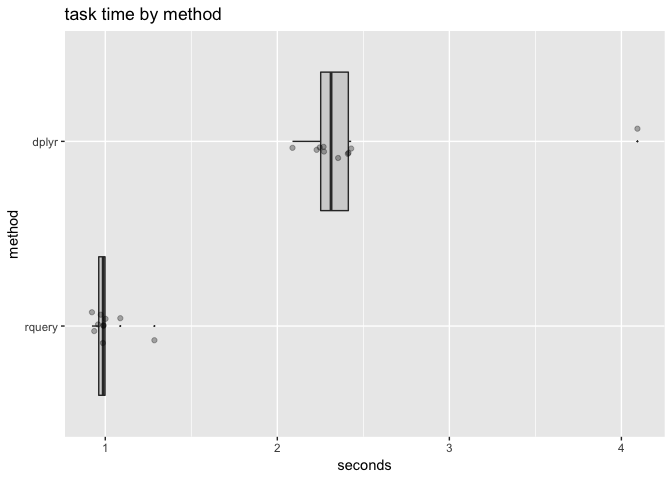
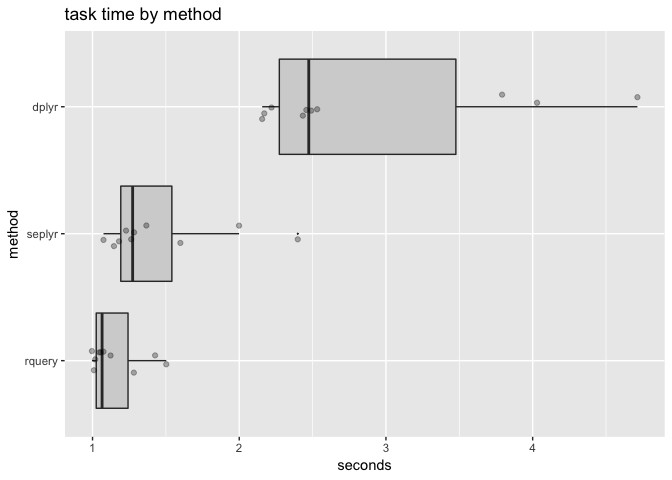
add seplyr/rlang note

diff --git a/extras/CollectExprs.md b/extras/CollectExprs.md
@@ -112,8 +112,8 @@ cat(rquery_fn(db_hdl, td, 5, return_sql = TRUE))
     ##    `x`
     ##   FROM
     ##    `d`
-    ##   ) tsql_52759624129854702053_0000000000
-    ## ) tsql_52759624129854702053_0000000001
+    ##   ) tsql_97238965696940256963_0000000000
+    ## ) tsql_97238965696940256963_0000000001
     ## WHERE `x` = 3
 
 ``` r
@@ -154,7 +154,7 @@ cat(dplyr_fn(tbl, 5, return_sql = TRUE))
     ## FROM (SELECT `x`, `x_1`, `x_2`, `x` + 3 AS `x_3`
     ## FROM (SELECT `x`, `x_1`, `x` + 2 AS `x_2`
     ## FROM (SELECT `x`, `x` + 1 AS `x_1`
-    ## FROM `d`) `mhxrlspolu`) `isdaovyqlr`) `djoikiprqj`) `nnwosegdrz`) `mbwgtjrlfg`
+    ## FROM `d`) `tyiyhhxjag`) `gshhunpiup`) `teowzjcshb`) `hdrfwlzycc`) `lsniejpwft`
     ## WHERE (`x` = 3.0)
 
 ``` r
@@ -166,12 +166,49 @@ dplyr_fn(tbl, 5)
     ##   <int> <int> <int> <int> <int> <int>
     ## 1     3     4     5     6     7     8
 
+We can also collect expressions efficiently using [`seplyr`](https://CRAN.R-project.org/package=seplyr) (`seplyr` is a thin wrapper over `dplyr`, so `seplyr`'s method [`mutate_se()`](https://winvector.github.io/seplyr/reference/mutate_se.html) is essentially instructions how to do the same thing using `rlang`).
+
+``` r
+seplyr_fn <- function(tbl, ncol, return_sql = FALSE) {
+  expressions <- character(0)
+  for(i in seq_len(ncol)) {
+    expri <- paste0("x_", i) %:=% paste0("x + ", i)
+    expressions <- c(expressions, expri)
+  }
+  pipeline <- tbl %>%
+    seplyr::mutate_se(., expressions) %>%
+    filter(., x == 3)
+  if(return_sql) {
+    return(dbplyr::remote_query(pipeline))
+  }
+  # force execution
+  pipeline %>% collect(.)
+}
+
+cat(seplyr_fn(tbl, 5, return_sql = TRUE))
+```
+
+    ## SELECT *
+    ## FROM (SELECT `x`, `x` + 1.0 AS `x_1`, `x` + 2.0 AS `x_2`, `x` + 3.0 AS `x_3`, `x` + 4.0 AS `x_4`, `x` + 5.0 AS `x_5`
+    ## FROM `d`) `gaktzzkzxq`
+    ## WHERE (`x` = 3.0)
+
+``` r
+seplyr_fn(tbl, 5)
+```
+
+    ## # A tibble: 1 x 6
+    ##       x   x_1   x_2   x_3   x_4   x_5
+    ##   <int> <dbl> <dbl> <dbl> <dbl> <dbl>
+    ## 1     3     4     5     6     7     8
+
 Time the functions. Timing is not going to be certain given issues such as cluster state and query caching.
 
 ``` r
 timings <- microbenchmark(
   rquery = rquery_fn(db_hdl, td, ncol),
   dplyr = dplyr_fn(tbl, ncol),
+  seplyr = seplyr_fn(tbl, ncol),
   times = 10L)
 
 saveRDS(timings, "CollectExprs_timings.RDS")
@@ -184,9 +221,10 @@ print(timings)
 ```
 
     ## Unit: milliseconds
-    ##    expr       min       lq    mean    median       uq      max neval
-    ##  rquery  922.4429  958.151 1012.98  987.8187 1001.329 1285.531    10
-    ##   dplyr 2088.2091 2246.560 2480.32 2312.3805 2413.692 4093.165    10
+    ##    expr      min       lq     mean   median       uq      max neval
+    ##  rquery  995.955 1018.481 1153.364 1065.092 1281.715 1502.717    10
+    ##   dplyr 2156.264 2219.900 2899.534 2473.929 3791.673 4714.063    10
+    ##  seplyr 1074.775 1180.591 1453.980 1273.424 1598.804 2398.883    10
 
 ``` r
 #autoplot(timings)
@@ -215,14 +253,14 @@ tratio <- timings %.>%
 tratio[]
 ```
 
-    ##      dplyr  rquery    ratio
-    ## 1: 2.48032 1.01298 2.448538
+    ##       dplyr   rquery  seplyr    ratio
+    ## 1: 2.899534 1.153364 1.45398 2.513979
 
 ``` r
 ratio_str <- sprintf("%.2g", tratio$ratio)
 ```
 
-`rquery` is about 2.4 times faster than `dplyr` for this task at this scale for this data implementation and configuration (we have also seen an over 8 times difference for this example on `PostgreSQL`).
+`rquery` is about 2.5 times faster than `dplyr` for this task at this scale for this data implementation and configuration (we have also seen an over 8 times difference for this example on `PostgreSQL`).
 
 ``` r
 if(use_spark) {
